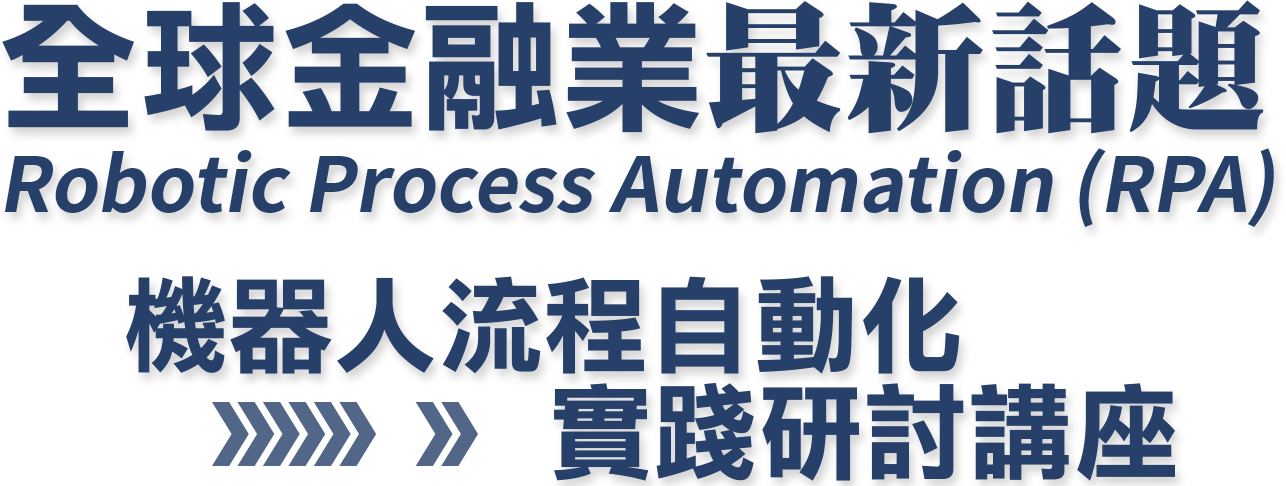
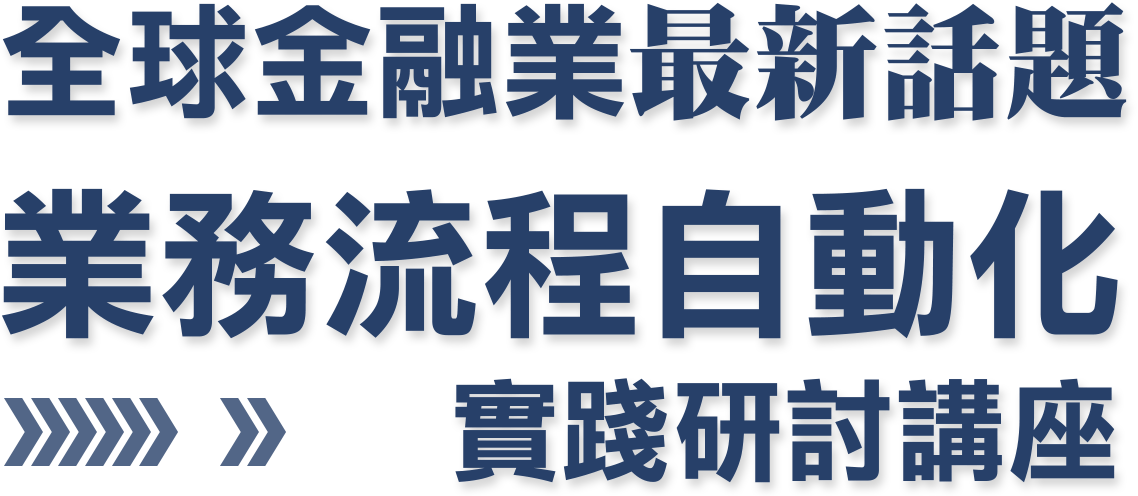
180425-1

diff --git a/web/index.html b/web/index.html
@@ -7,9 +7,9 @@
         <meta name="keywords" content="">
         <meta name="author" content="">
 
-        <title>全球金融業最新話題 - 業務流程自動化實踐研討講座</title>
+        <title>全球金融業最新話題 - 機器人流程自動化實踐研討講座</title>
 
-        <meta property="og:title" content="">
+        <meta property="og:title" content="全球金融業最新話題IBM機器人流程自動化實踐研討講座">
         <meta property="og:description" content="">
         <meta property="og:image" content="assets/img/og-image.jpg">
         <meta property="og:url" content="http://www.businesstoday.com.tw/">
@@ -52,9 +52,9 @@
                         <img class="img-fluid" src="assets/img/ui/title.png" srcset="assets/img/ui/title@2x.png 2x" alt="">
                         <div class="lead text-white pt-3 pb-5">
                             人工智慧如何幫助加快業務流程、加值人力運用、加速創新轉型？<br>
-                            新加坡跨國銀行的最佳實踐分享、<br>銀行與保險業分組研討最具價值的流程自動化<br>
+                            透過新加坡跨國銀行的最佳實踐分享、銀行與保險業分組研討<br>
                             從如何評估、選擇工具、操作階段到實際演示，最具實用性的一場活動<br>
-                            5月16日，IBM 為台灣金融業啟動智慧化加速器。
+                            5月16日，IBM 為台灣金融業引介最熱門的機器人流程自動化<br>(Robotic Process Automation, RPA)。
                         </div>
                         <a class="btn btn-block btn-lg btn-anchor btn-cta" href="#section-join">立即報名</a>
                     </div>
